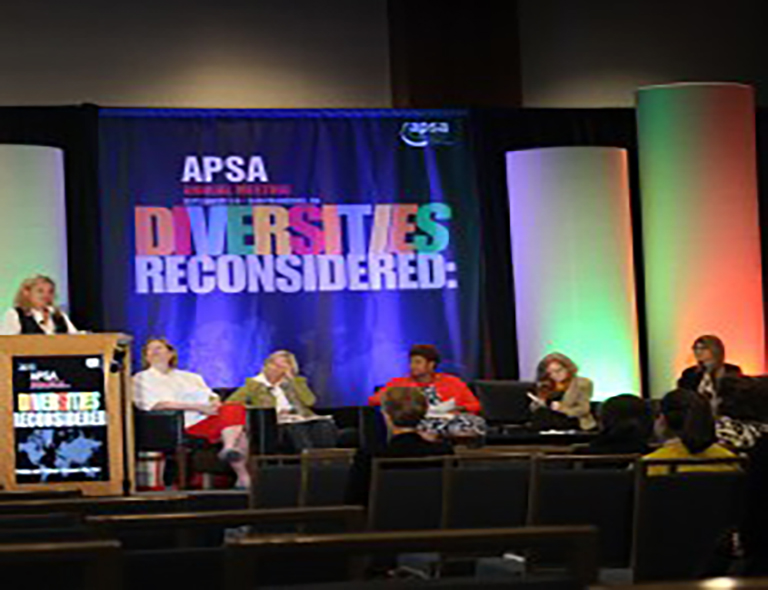
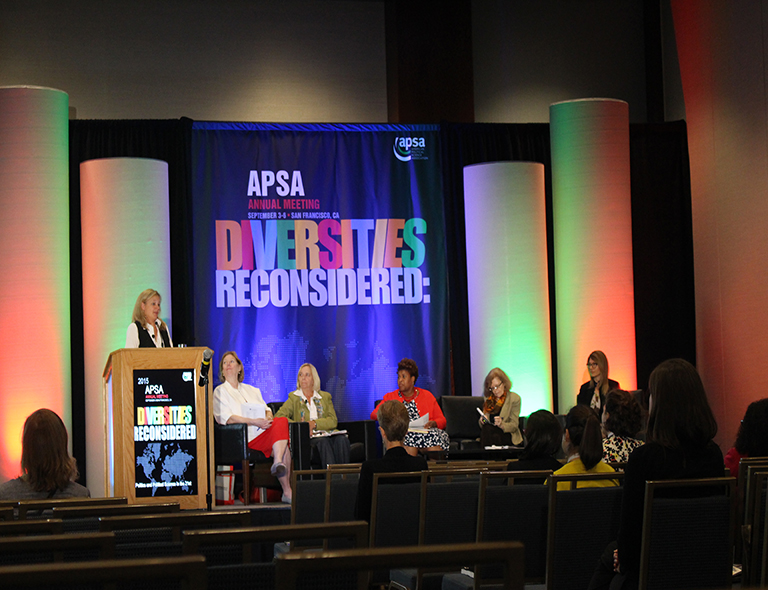
women and international pictures updated in english portfolio

diff --git a/sections/en-US/portfolio.php b/sections/en-US/portfolio.php
@@ -68,7 +68,7 @@
                 <div class="item col-sm-6 col-md-4">
                     <div class="project-wrapper">
                         <div class="project-link">
-                            <a href="assets/images/portfolio/english/women.jpg" class="zoom" title="Empowering Women in the Profession">
+                            <a href="assets/images/portfolio/english/women_cropped.jpg" class="zoom" title="Empowering Women in the Profession">
                                 <i class="icon-Full-Screen"></i>
                             </a>
 
